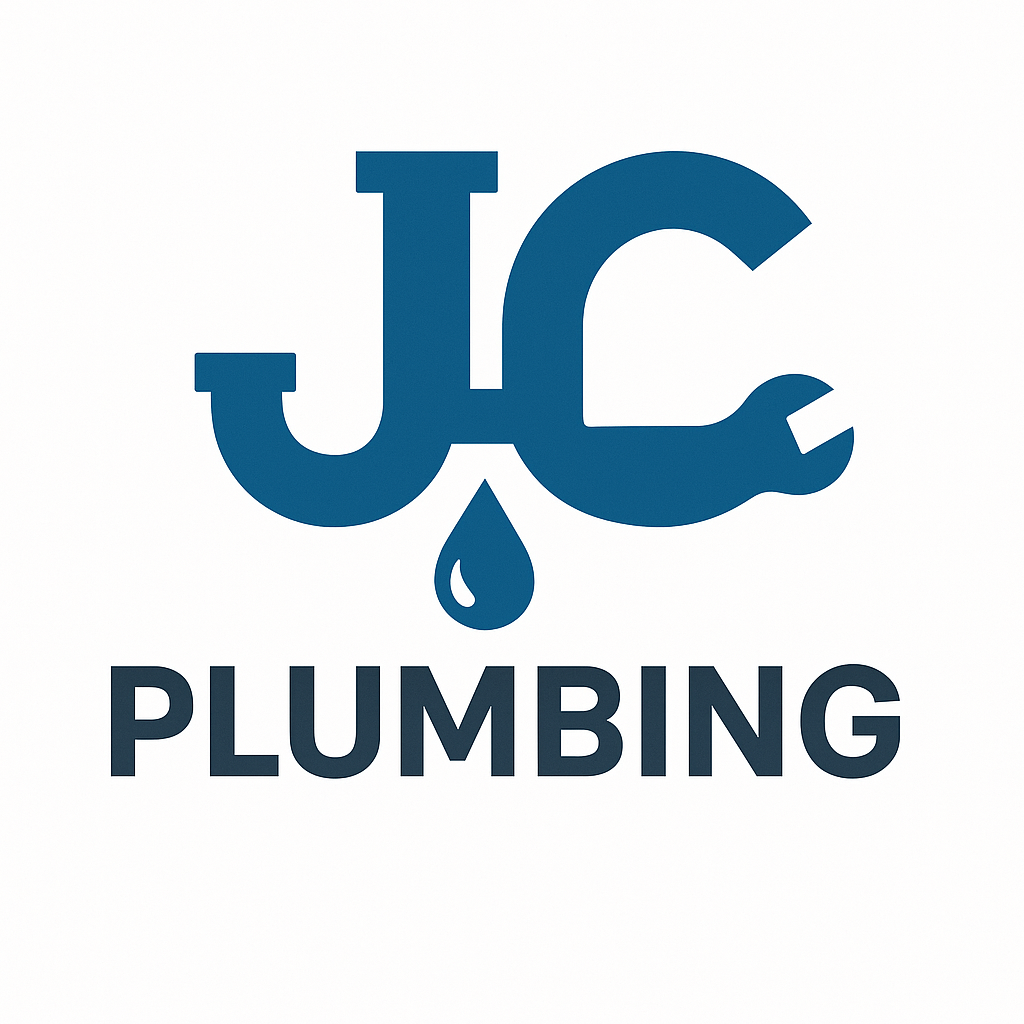
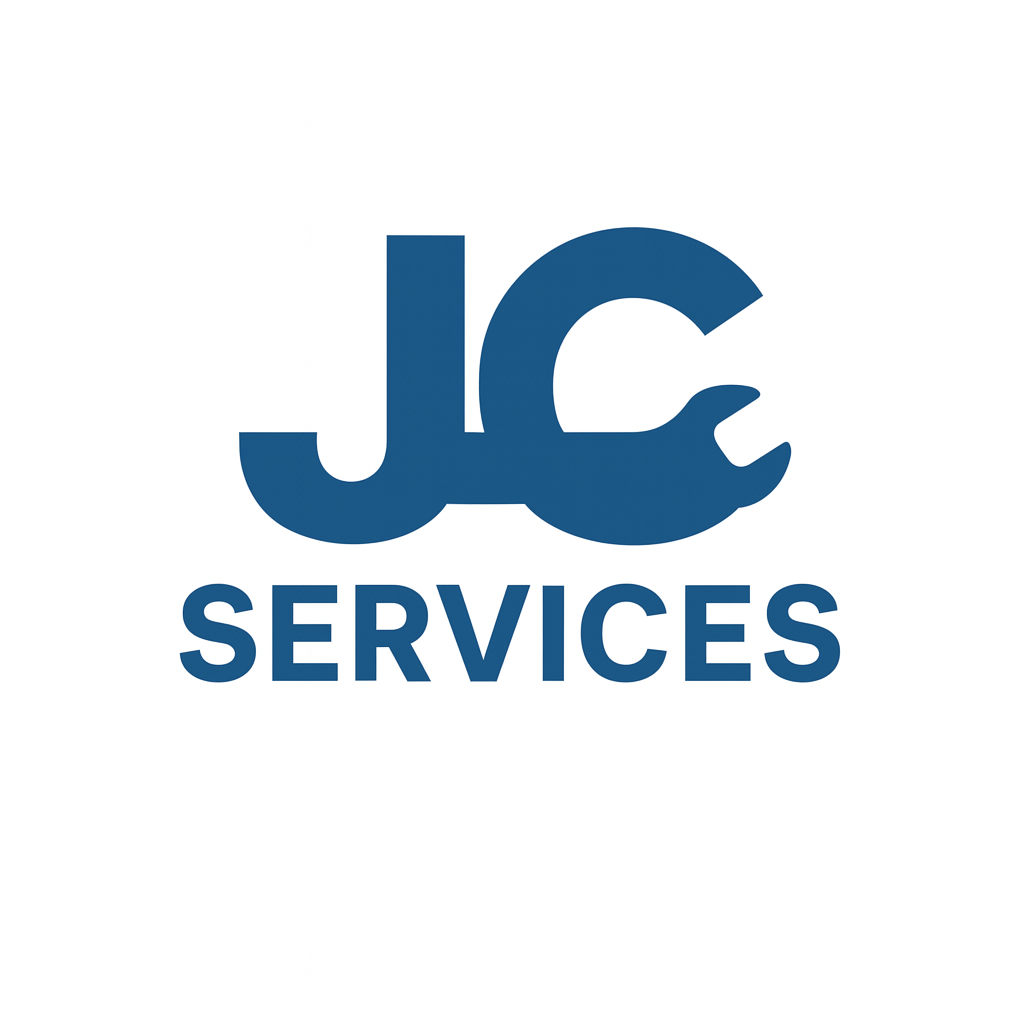
updates

diff --git a/my-app/src/components/WhyUs.jsx b/my-app/src/components/WhyUs.jsx
@@ -13,14 +13,14 @@ const WhyUs = () => {
       description: "Decades of expertise ensuring quality workmanship and reliable service."
     },
     {
-      icon: "🛡️",
-      title: "Fully Licensed & Insured",
-      description: "Complete peace of mind with proper licensing and comprehensive insurance coverage."
+      icon: "⭐",
+      title: "Quality Service",
+      description: "We deliver exceptional workmanship and attention to detail on every job."
     },
     {
-      icon: "❤️",
-      title: "Trust Customers Like Family",
-      description: "We treat every customer with the same care and respect as our own family."
+      icon: "🔧",
+      title: "Long Lasting Service",
+      description: "Our repairs and installations are built to last, saving you money in the long run."
     }
   ]
 
@@ -28,7 +28,7 @@ const WhyUs = () => {
     <section id="why-us" className={styles.whyUs}>
       <div className={styles.container}>
         <div className={styles.header}>
-          <h2 className={styles.title}>Why Choose JC Plumbing?</h2>
+          <h2 className={styles.title}>Why Choose JC Services?</h2>
           <p className={styles.subtitle}>
             Experience the difference that family values and professional expertise make
           </p>

diff --git a/my-app/src/components/Footer.jsx b/my-app/src/components/Footer.jsx
@@ -5,7 +5,7 @@ const Footer = () => {
     <footer className={styles.footer}>
       <div className={styles.container}>
         <p className={styles.copyright}>
-          © 2025 JC Plumbing. All rights reserved.
+          © 2025 JC Services. All rights reserved.
         </p>
       </div>
     </footer>

diff --git a/my-app/src/components/Header.jsx b/my-app/src/components/Header.jsx
@@ -3,7 +3,7 @@ import styles from './Header.module.css'
 
 const Header = () => (
   <header className={styles.header}>
-      <img className={styles.logo} src={logo} alt="JC Plumbing" />
+      <img className={styles.logo} src={logo} alt="JC Services & Repairs" />
 
     <nav className={styles.nav}>
       <a href="#why-us" className={styles.link}>Why Us</a>

diff --git a/my-app/src/components/Quote.jsx b/my-app/src/components/Quote.jsx
@@ -4,7 +4,7 @@ const Quote = () => (
   <section id="quote" className={styles.section}>
     <div className={styles.copy}>
       <div className={styles.stars}>★★★★★</div>
-      <h1 className={styles.headline}>JC Plumbing<br/>Services & Repairs</h1>
+      <h1 className={styles.headline}>JC Services & Repairs</h1>
       <p className={styles.blurb}>
         Sewer & drain cleaning, toilet/sink/shower repairs—fast, honest, local.
       </p>